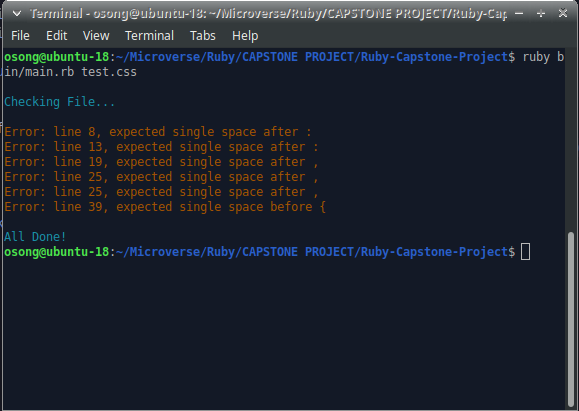
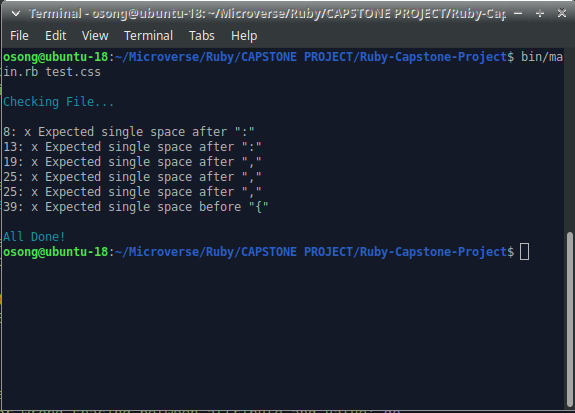
Added rspec tests and updated readme file

Changed region(s): [[0.0, 0.0, 1.0, 1.0], [0.2957, 0.0, 1.0, 0.3504], [0.2365, 0.1168, 0.2661, 0.146]]

diff --git a/spec/test_spec.css b/spec/test_spec.css
@@ -1,0 +1,8 @@
+.close,h3 {
+  color:gray;
+  text-transform: uppercase;
+}
+
+.shoe{
+  color: green;
+}

diff --git a/spec/spec_helper.rb b/spec/spec_helper.rb
@@ -44,57 +44,55 @@ RSpec.configure do |config|
   # triggering implicit auto-inclusion in groups with matching metadata.
   config.shared_context_metadata_behavior = :apply_to_host_groups
 
-# The settings below are suggested to provide a good initial experience
-# with RSpec, but feel free to customize to your heart's content.
-=begin
-  # This allows you to limit a spec run to individual examples or groups
-  # you care about by tagging them with `:focus` metadata. When nothing
-  # is tagged with `:focus`, all examples get run. RSpec also provides
-  # aliases for `it`, `describe`, and `context` that include `:focus`
-  # metadata: `fit`, `fdescribe` and `fcontext`, respectively.
-  config.filter_run_when_matching :focus
-
-  # Allows RSpec to persist some state between runs in order to support
-  # the `--only-failures` and `--next-failure` CLI options. We recommend
-  # you configure your source control system to ignore this file.
-  config.example_status_persistence_file_path = "spec/examples.txt"
-
-  # Limits the available syntax to the non-monkey patched syntax that is
-  # recommended. For more details, see:
-  #   - http://rspec.info/blog/2012/06/rspecs-new-expectation-syntax/
-  #   - http://www.teaisaweso.me/blog/2013/05/27/rspecs-new-message-expectation-syntax/
-  #   - http://rspec.info/blog/2014/05/notable-changes-in-rspec-3/#zero-monkey-patching-mode
-  config.disable_monkey_patching!
-
-  # This setting enables warnings. It's recommended, but in some cases may
-  # be too noisy due to issues in dependencies.
-  config.warnings = true
-
-  # Many RSpec users commonly either run the entire suite or an individual
-  # file, and it's useful to allow more verbose output when running an
-  # individual spec file.
-  if config.files_to_run.one?
-    # Use the documentation formatter for detailed output,
-    # unless a formatter has already been configured
-    # (e.g. via a command-line flag).
-    config.default_formatter = "doc"
-  end
-
-  # Print the 10 slowest examples and example groups at the
-  # end of the spec run, to help surface which specs are running
-  # particularly slow.
-  config.profile_examples = 10
-
-  # Run specs in random order to surface order dependencies. If you find an
-  # order dependency and want to debug it, you can fix the order by providing
-  # the seed, which is printed after each run.
-  #     --seed 1234
-  config.order = :random
-
-  # Seed global randomization in this process using the `--seed` CLI option.
-  # Setting this allows you to use `--seed` to deterministically reproduce
-  # test failures related to randomization by passing the same `--seed` value
-  # as the one that triggered the failure.
-  Kernel.srand config.seed
-=end
+  # The settings below are suggested to provide a good initial experience
+  # with RSpec, but feel free to customize to your heart's content.
+  #   # This allows you to limit a spec run to individual examples or groups
+  #   # you care about by tagging them with `:focus` metadata. When nothing
+  #   # is tagged with `:focus`, all examples get run. RSpec also provides
+  #   # aliases for `it`, `describe`, and `context` that include `:focus`
+  #   # metadata: `fit`, `fdescribe` and `fcontext`, respectively.
+  #   config.filter_run_when_matching :focus
+  #
+  #   # Allows RSpec to persist some state between runs in order to support
+  #   # the `--only-failures` and `--next-failure` CLI options. We recommend
+  #   # you configure your source control system to ignore this file.
+  #   config.example_status_persistence_file_path = "spec/examples.txt"
+  #
+  #   # Limits the available syntax to the non-monkey patched syntax that is
+  #   # recommended. For more details, see:
+  #   #   - http://rspec.info/blog/2012/06/rspecs-new-expectation-syntax/
+  #   #   - http://www.teaisaweso.me/blog/2013/05/27/rspecs-new-message-expectation-syntax/
+  #   #   - http://rspec.info/blog/2014/05/notable-changes-in-rspec-3/#zero-monkey-patching-mode
+  #   config.disable_monkey_patching!
+  #
+  #   # This setting enables warnings. It's recommended, but in some cases may
+  #   # be too noisy due to issues in dependencies.
+  #   config.warnings = true
+  #
+  #   # Many RSpec users commonly either run the entire suite or an individual
+  #   # file, and it's useful to allow more verbose output when running an
+  #   # individual spec file.
+  #   if config.files_to_run.one?
+  #     # Use the documentation formatter for detailed output,
+  #     # unless a formatter has already been configured
+  #     # (e.g. via a command-line flag).
+  #     config.default_formatter = "doc"
+  #   end
+  #
+  #   # Print the 10 slowest examples and example groups at the
+  #   # end of the spec run, to help surface which specs are running
+  #   # particularly slow.
+  #   config.profile_examples = 10
+  #
+  #   # Run specs in random order to surface order dependencies. If you find an
+  #   # order dependency and want to debug it, you can fix the order by providing
+  #   # the seed, which is printed after each run.
+  #   #     --seed 1234
+  #   config.order = :random
+  #
+  #   # Seed global randomization in this process using the `--seed` CLI option.
+  #   # Setting this allows you to use `--seed` to deterministically reproduce
+  #   # test failures related to randomization by passing the same `--seed` value
+  #   # as the one that triggered the failure.
+  #   Kernel.srand config.seed
 end

diff --git a/spec/linter_spec.rb b/spec/linter_spec.rb
@@ -1,0 +1,33 @@
+require_relative '../lib/load_file.rb'
+require_relative '../lib/linter.rb'
+
+RSpec.describe Linter do
+  include Linter
+
+  let(:file) { 'spec/test_spec.css' }
+  let(:new_file) { LoadFile.new(file) }
+
+  describe "#line_spacing_after \',\'" do
+    it 'Returns an error for wrong spacing between selectors' do
+      expect do
+        line_spacing_after(1, new_file.file_content[0], ',')
+      end.to output("1: x Expected single space after \",\"\n").to_stdout
+    end
+  end
+
+  describe "#line_spacing_after \':\'" do
+    it 'Returns an error for wrong spacing between attribute and value' do
+      expect do
+        line_spacing_after(2, new_file.file_content[1], ':')
+      end.to output("2: x Expected single space after \":\"\n").to_stdout
+    end
+  end
+
+  describe "#line_spacing_before \'{\'" do
+    it 'Returns an error for wrong spacing between selector and opening curly brace' do
+      expect do
+        line_spacing_before(6, new_file.file_content[5], '{')
+      end.to output("6: x Expected single space before \"{\"\n").to_stdout
+    end
+  end
+end

diff --git a/lib/linter.rb b/lib/linter.rb
@@ -10,8 +10,6 @@ module Linter
     end
   end
 
-  private
-
   def line_spacing_before(line, str, char)
     str.reset
     new_str = str.scan_until(Regexp.new(char))
@@ -19,7 +17,7 @@ module Linter
       new_str = StringScanner.new(new_str.reverse)
       new_str.skip(Regexp.new(char))
       new_str.scan(/\s+/)
-      puts "#{ line}: x Expected single space before \"#{char}\"".yellow if new_str.matched != ' '
+      puts "#{line}: x Expected single space before \"#{char}\"" if new_str.matched != ' '
       new_str = str.scan_until(Regexp.new(char))
     end
   end
@@ -29,7 +27,7 @@ module Linter
     str.scan_until(Regexp.new(char))
     while str.matched?
       str.scan(/\s+/)
-      puts "#{line}: x Expected single space after \"#{char}\"".yellow if str.matched != ' '
+      puts "#{line}: x Expected single space after \"#{char}\"" if str.matched != ' '
       str.scan_until(Regexp.new(char))
     end
   end

diff --git a/README.md b/README.md
@@ -45,6 +45,8 @@ The errors this linter checks for are errors like the following below:
 ## Screenshot of code output
 ![screenshot](test.png)
 
+## Screenshot of rspec output
+![screenshot](rspec.png)
 
 ## Author
 
